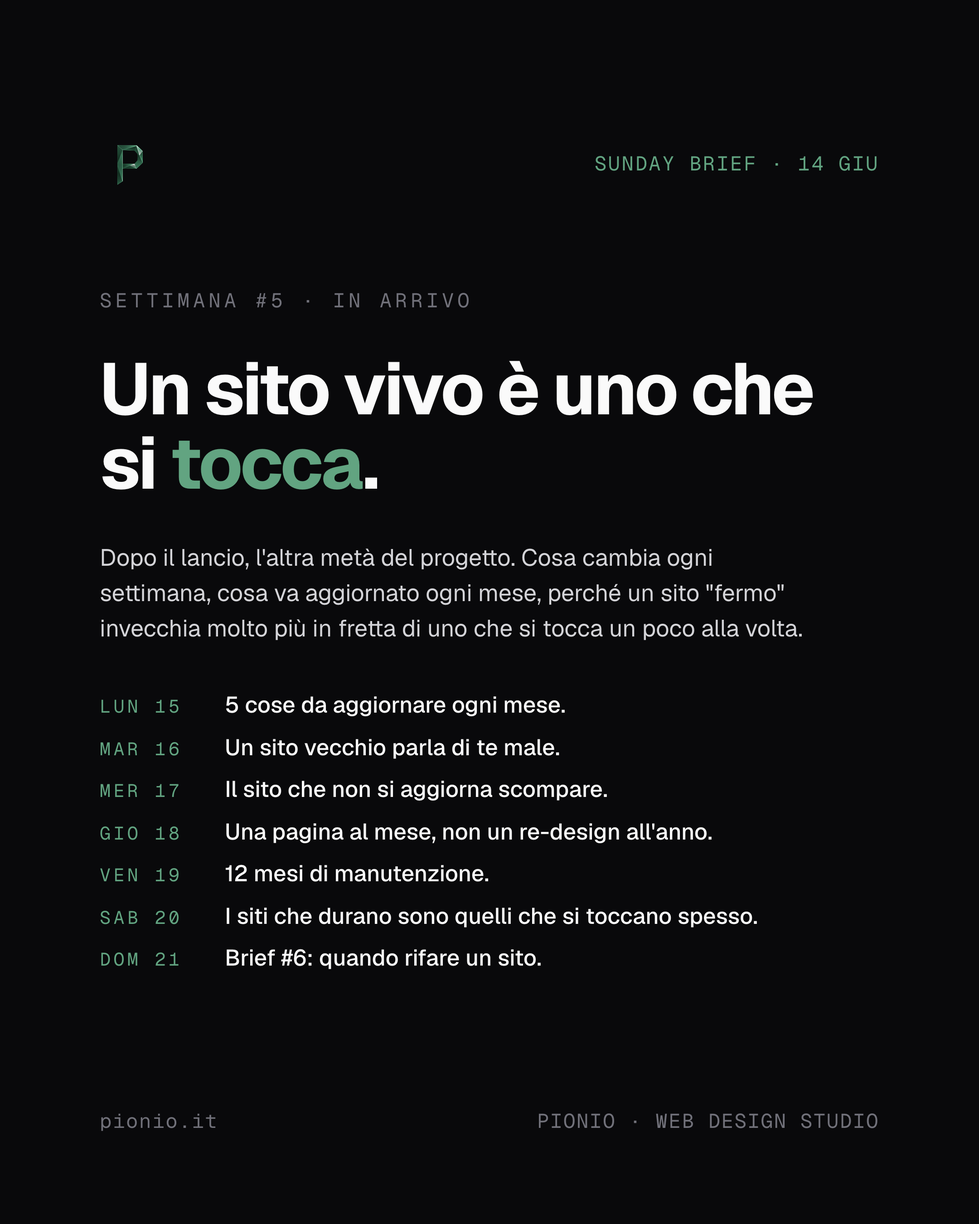
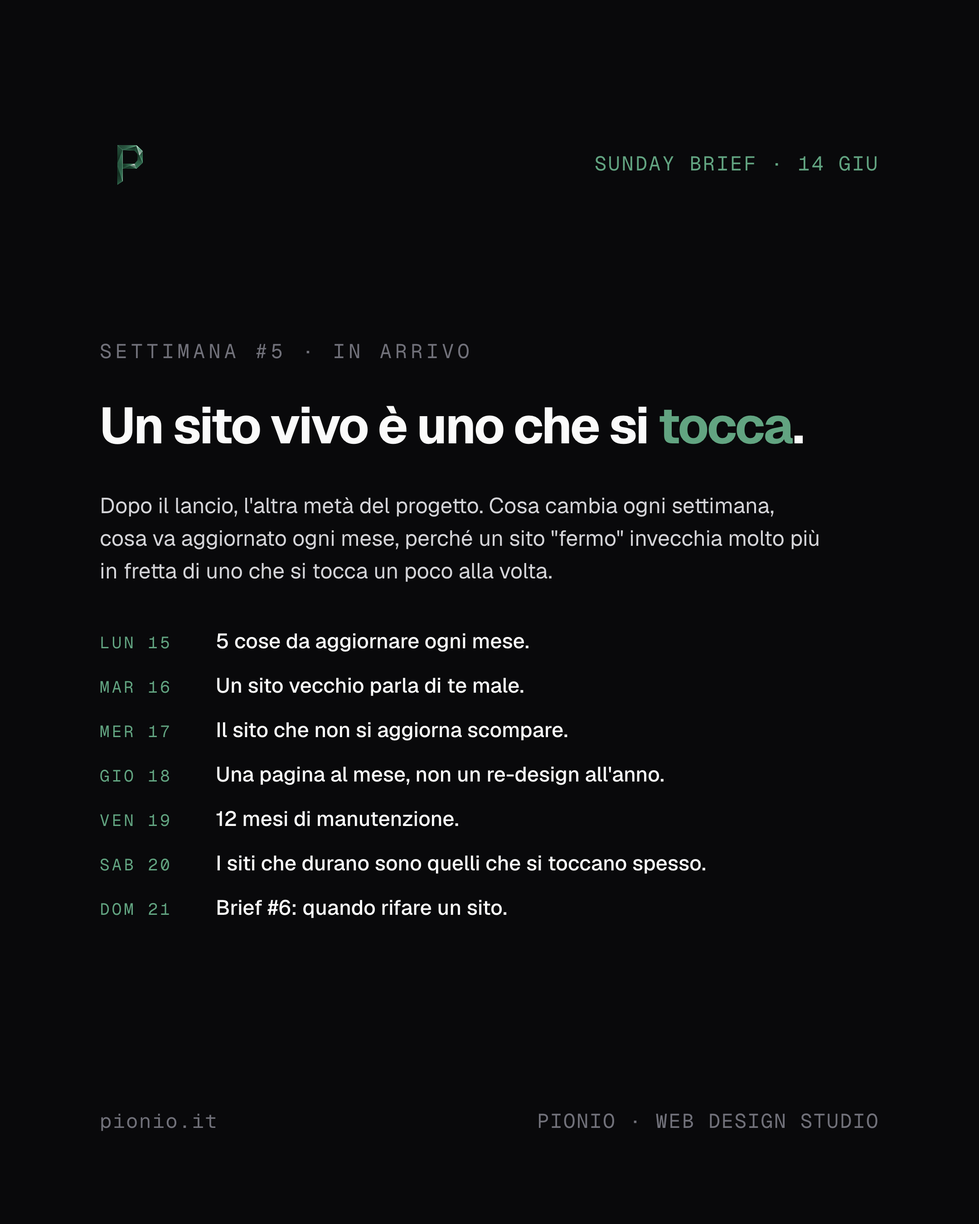
fix(instagram): Brief layout — respirato, nowrap day, no suffisso cross-mese

diff --git a/instagram/content/settimana-06-giu-2026/7-dom-28-13-brief-settimana-7/src/slides.html b/instagram/content/settimana-06-giu-2026/7-dom-28-13-brief-settimana-7/src/slides.html
@@ -17,15 +17,15 @@
   .logo { width: 64px; height: 64px; }
   .logo img { width: 100%; height: 100%; object-fit: contain; }
   .eyebrow { font-family: "Geist Mono", monospace; font-weight: 400; font-size: 22px; color: var(--accent); letter-spacing: 0.08em; text-transform: uppercase; }
-  .main { display: flex; flex-direction: column; justify-content: flex-start; gap: 28px; padding-top: 24px; }
+  .main { display: flex; flex-direction: column; justify-content: center; gap: 40px; }
   .brief-kicker { font-family: "Geist Mono", monospace; font-size: 22px; color: var(--muted-dim); letter-spacing: 0.18em; text-transform: uppercase; }
-  .brief-title { font-family: "Geist", sans-serif; font-weight: 700; font-size: 64px; line-height: 1.02; letter-spacing: -0.035em; color: var(--text); max-width: 880px; }
+  .brief-title { font-family: "Geist", sans-serif; font-weight: 700; font-size: 56px; line-height: 1.05; letter-spacing: -0.035em; color: var(--text); max-width: 880px; }
   .brief-title em { font-style: normal; color: var(--accent); }
-  .brief-lead { font-family: "Geist", sans-serif; font-weight: 400; font-size: 24px; line-height: 1.45; color: var(--muted); max-width: 780px; }
-  .brief-list { list-style: none; display: flex; flex-direction: column; gap: 10px; margin-top: 0; }
-  .brief-list li { display: grid; grid-template-columns: 110px 1fr; gap: 28px; align-items: baseline; }
-  .brief-list .day { font-family: "Geist Mono", monospace; font-size: 20px; color: var(--accent); letter-spacing: 0.16em; text-transform: uppercase; }
-  .brief-list .topic { font-family: "Geist", sans-serif; font-weight: 500; font-size: 25px; line-height: 1.3; color: var(--text); }
+  .brief-lead { font-family: "Geist", sans-serif; font-weight: 400; font-size: 24px; line-height: 1.5; color: var(--muted); max-width: 800px; }
+  .brief-list { list-style: none; display: flex; flex-direction: column; gap: 18px; margin-top: 4px; }
+  .brief-list li { display: grid; grid-template-columns: 100px 1fr; gap: 28px; align-items: baseline; }
+  .brief-list .day { font-family: "Geist Mono", monospace; font-size: 18px; color: var(--accent); letter-spacing: 0.14em; text-transform: uppercase; white-space: nowrap; }
+  .brief-list .topic { font-family: "Geist", sans-serif; font-weight: 500; font-size: 23px; line-height: 1.35; color: var(--text); }
   .brief-list .topic em { font-style: italic; color: var(--muted); font-weight: 400; }
   .brief-list .topic .frame { color: var(--accent); font-style: normal; font-weight: 600; }
   .footer { display: flex; align-items: flex-end; justify-content: space-between; }
@@ -47,7 +47,7 @@
     <ul class="brief-list">
       <li><span class="day">Lun 29</span><span class="topic">5 tipi di cliente a cui dico no.</span></li>
       <li><span class="day">Mar 30</span><span class="topic">Scegliere chi sei è scegliere chi non sei.</span></li>
-      <li><span class="day">Mer 1 lug</span><span class="topic">Quello che non faccio è il mio mestiere.</span></li>
+      <li><span class="day">Mer 1</span><span class="topic">Quello che non faccio è il mio mestiere.</span></li>
       <li><span class="day">Gio 2</span><span class="topic">Tre domande prima di dire sì.</span></li>
       <li><span class="day">Ven 3</span><span class="topic">Quando ho detto: no.</span></li>
       <li><span class="day">Sab 4</span><span class="topic">La nicchia non si sceglie. Ti sceglie.</span></li>

diff --git a/instagram/content/settimana-07-giu-2026/7-dom-5-13-brief-settimana-8/src/slides.html b/instagram/content/settimana-07-giu-2026/7-dom-5-13-brief-settimana-8/src/slides.html
@@ -17,15 +17,15 @@
   .logo { width: 64px; height: 64px; }
   .logo img { width: 100%; height: 100%; object-fit: contain; }
   .eyebrow { font-family: "Geist Mono", monospace; font-weight: 400; font-size: 22px; color: var(--accent); letter-spacing: 0.08em; text-transform: uppercase; }
-  .main { display: flex; flex-direction: column; justify-content: flex-start; gap: 28px; padding-top: 24px; }
+  .main { display: flex; flex-direction: column; justify-content: center; gap: 40px; }
   .brief-kicker { font-family: "Geist Mono", monospace; font-size: 22px; color: var(--muted-dim); letter-spacing: 0.18em; text-transform: uppercase; }
-  .brief-title { font-family: "Geist", sans-serif; font-weight: 700; font-size: 64px; line-height: 1.02; letter-spacing: -0.035em; color: var(--text); max-width: 880px; }
+  .brief-title { font-family: "Geist", sans-serif; font-weight: 700; font-size: 56px; line-height: 1.05; letter-spacing: -0.035em; color: var(--text); max-width: 880px; }
   .brief-title em { font-style: normal; color: var(--accent); }
-  .brief-lead { font-family: "Geist", sans-serif; font-weight: 400; font-size: 24px; line-height: 1.45; color: var(--muted); max-width: 780px; }
-  .brief-list { list-style: none; display: flex; flex-direction: column; gap: 10px; margin-top: 0; }
-  .brief-list li { display: grid; grid-template-columns: 110px 1fr; gap: 28px; align-items: baseline; }
-  .brief-list .day { font-family: "Geist Mono", monospace; font-size: 20px; color: var(--accent); letter-spacing: 0.16em; text-transform: uppercase; }
-  .brief-list .topic { font-family: "Geist", sans-serif; font-weight: 500; font-size: 25px; line-height: 1.3; color: var(--text); }
+  .brief-lead { font-family: "Geist", sans-serif; font-weight: 400; font-size: 24px; line-height: 1.5; color: var(--muted); max-width: 800px; }
+  .brief-list { list-style: none; display: flex; flex-direction: column; gap: 18px; margin-top: 4px; }
+  .brief-list li { display: grid; grid-template-columns: 100px 1fr; gap: 28px; align-items: baseline; }
+  .brief-list .day { font-family: "Geist Mono", monospace; font-size: 18px; color: var(--accent); letter-spacing: 0.14em; text-transform: uppercase; white-space: nowrap; }
+  .brief-list .topic { font-family: "Geist", sans-serif; font-weight: 500; font-size: 23px; line-height: 1.35; color: var(--text); }
   .brief-list .topic em { font-style: italic; color: var(--muted); font-weight: 400; }
   .brief-list .topic .frame { color: var(--accent); font-style: normal; font-weight: 600; }
   .footer { display: flex; align-items: flex-end; justify-content: space-between; }

diff --git a/instagram/content/settimana-08-lug-2026/7-dom-12-13-brief-settimana-9/src/slides.html b/instagram/content/settimana-08-lug-2026/7-dom-12-13-brief-settimana-9/src/slides.html
@@ -17,15 +17,15 @@
   .logo { width: 64px; height: 64px; }
   .logo img { width: 100%; height: 100%; object-fit: contain; }
   .eyebrow { font-family: "Geist Mono", monospace; font-weight: 400; font-size: 22px; color: var(--accent); letter-spacing: 0.08em; text-transform: uppercase; }
-  .main { display: flex; flex-direction: column; justify-content: flex-start; gap: 28px; padding-top: 24px; }
+  .main { display: flex; flex-direction: column; justify-content: center; gap: 40px; }
   .brief-kicker { font-family: "Geist Mono", monospace; font-size: 22px; color: var(--muted-dim); letter-spacing: 0.18em; text-transform: uppercase; }
-  .brief-title { font-family: "Geist", sans-serif; font-weight: 700; font-size: 64px; line-height: 1.02; letter-spacing: -0.035em; color: var(--text); max-width: 880px; }
+  .brief-title { font-family: "Geist", sans-serif; font-weight: 700; font-size: 56px; line-height: 1.05; letter-spacing: -0.035em; color: var(--text); max-width: 880px; }
   .brief-title em { font-style: normal; color: var(--accent); }
-  .brief-lead { font-family: "Geist", sans-serif; font-weight: 400; font-size: 24px; line-height: 1.45; color: var(--muted); max-width: 780px; }
-  .brief-list { list-style: none; display: flex; flex-direction: column; gap: 10px; margin-top: 0; }
-  .brief-list li { display: grid; grid-template-columns: 110px 1fr; gap: 28px; align-items: baseline; }
-  .brief-list .day { font-family: "Geist Mono", monospace; font-size: 20px; color: var(--accent); letter-spacing: 0.16em; text-transform: uppercase; }
-  .brief-list .topic { font-family: "Geist", sans-serif; font-weight: 500; font-size: 25px; line-height: 1.3; color: var(--text); }
+  .brief-lead { font-family: "Geist", sans-serif; font-weight: 400; font-size: 24px; line-height: 1.5; color: var(--muted); max-width: 800px; }
+  .brief-list { list-style: none; display: flex; flex-direction: column; gap: 18px; margin-top: 4px; }
+  .brief-list li { display: grid; grid-template-columns: 100px 1fr; gap: 28px; align-items: baseline; }
+  .brief-list .day { font-family: "Geist Mono", monospace; font-size: 18px; color: var(--accent); letter-spacing: 0.14em; text-transform: uppercase; white-space: nowrap; }
+  .brief-list .topic { font-family: "Geist", sans-serif; font-weight: 500; font-size: 23px; line-height: 1.35; color: var(--text); }
   .brief-list .topic em { font-style: italic; color: var(--muted); font-weight: 400; }
   .brief-list .topic .frame { color: var(--accent); font-style: normal; font-weight: 600; }
   .footer { display: flex; align-items: flex-end; justify-content: space-between; }

diff --git a/instagram/content/settimana-09-lug-2026/7-dom-19-13-brief-settimana-10/src/slides.html b/instagram/content/settimana-09-lug-2026/7-dom-19-13-brief-settimana-10/src/slides.html
@@ -17,15 +17,15 @@
   .logo { width: 64px; height: 64px; }
   .logo img { width: 100%; height: 100%; object-fit: contain; }
   .eyebrow { font-family: "Geist Mono", monospace; font-weight: 400; font-size: 22px; color: var(--accent); letter-spacing: 0.08em; text-transform: uppercase; }
-  .main { display: flex; flex-direction: column; justify-content: flex-start; gap: 28px; padding-top: 24px; }
+  .main { display: flex; flex-direction: column; justify-content: center; gap: 40px; }
   .brief-kicker { font-family: "Geist Mono", monospace; font-size: 22px; color: var(--muted-dim); letter-spacing: 0.18em; text-transform: uppercase; }
-  .brief-title { font-family: "Geist", sans-serif; font-weight: 700; font-size: 64px; line-height: 1.02; letter-spacing: -0.035em; color: var(--text); max-width: 880px; }
+  .brief-title { font-family: "Geist", sans-serif; font-weight: 700; font-size: 56px; line-height: 1.05; letter-spacing: -0.035em; color: var(--text); max-width: 880px; }
   .brief-title em { font-style: normal; color: var(--accent); }
-  .brief-lead { font-family: "Geist", sans-serif; font-weight: 400; font-size: 24px; line-height: 1.45; color: var(--muted); max-width: 780px; }
-  .brief-list { list-style: none; display: flex; flex-direction: column; gap: 10px; margin-top: 0; }
-  .brief-list li { display: grid; grid-template-columns: 110px 1fr; gap: 28px; align-items: baseline; }
-  .brief-list .day { font-family: "Geist Mono", monospace; font-size: 20px; color: var(--accent); letter-spacing: 0.16em; text-transform: uppercase; }
-  .brief-list .topic { font-family: "Geist", sans-serif; font-weight: 500; font-size: 25px; line-height: 1.3; color: var(--text); }
+  .brief-lead { font-family: "Geist", sans-serif; font-weight: 400; font-size: 24px; line-height: 1.5; color: var(--muted); max-width: 800px; }
+  .brief-list { list-style: none; display: flex; flex-direction: column; gap: 18px; margin-top: 4px; }
+  .brief-list li { display: grid; grid-template-columns: 100px 1fr; gap: 28px; align-items: baseline; }
+  .brief-list .day { font-family: "Geist Mono", monospace; font-size: 18px; color: var(--accent); letter-spacing: 0.14em; text-transform: uppercase; white-space: nowrap; }
+  .brief-list .topic { font-family: "Geist", sans-serif; font-weight: 500; font-size: 23px; line-height: 1.35; color: var(--text); }
   .brief-list .topic em { font-style: italic; color: var(--muted); font-weight: 400; }
   .brief-list .topic .frame { color: var(--accent); font-style: normal; font-weight: 600; }
   .footer { display: flex; align-items: flex-end; justify-content: space-between; }

diff --git a/instagram/content/settimana-11-lug-2026/7-dom-2-13-brief-settimana-12/src/slides.html b/instagram/content/settimana-11-lug-2026/7-dom-2-13-brief-settimana-12/src/slides.html
@@ -17,15 +17,15 @@
   .logo { width: 64px; height: 64px; }
   .logo img { width: 100%; height: 100%; object-fit: contain; }
   .eyebrow { font-family: "Geist Mono", monospace; font-weight: 400; font-size: 22px; color: var(--accent); letter-spacing: 0.08em; text-transform: uppercase; }
-  .main { display: flex; flex-direction: column; justify-content: flex-start; gap: 28px; padding-top: 24px; }
+  .main { display: flex; flex-direction: column; justify-content: center; gap: 40px; }
   .brief-kicker { font-family: "Geist Mono", monospace; font-size: 22px; color: var(--muted-dim); letter-spacing: 0.18em; text-transform: uppercase; }
-  .brief-title { font-family: "Geist", sans-serif; font-weight: 700; font-size: 64px; line-height: 1.02; letter-spacing: -0.035em; color: var(--text); max-width: 880px; }
+  .brief-title { font-family: "Geist", sans-serif; font-weight: 700; font-size: 56px; line-height: 1.05; letter-spacing: -0.035em; color: var(--text); max-width: 880px; }
   .brief-title em { font-style: normal; color: var(--accent); }
-  .brief-lead { font-family: "Geist", sans-serif; font-weight: 400; font-size: 24px; line-height: 1.45; color: var(--muted); max-width: 780px; }
-  .brief-list { list-style: none; display: flex; flex-direction: column; gap: 10px; margin-top: 0; }
-  .brief-list li { display: grid; grid-template-columns: 110px 1fr; gap: 28px; align-items: baseline; }
-  .brief-list .day { font-family: "Geist Mono", monospace; font-size: 20px; color: var(--accent); letter-spacing: 0.16em; text-transform: uppercase; }
-  .brief-list .topic { font-family: "Geist", sans-serif; font-weight: 500; font-size: 25px; line-height: 1.3; color: var(--text); }
+  .brief-lead { font-family: "Geist", sans-serif; font-weight: 400; font-size: 24px; line-height: 1.5; color: var(--muted); max-width: 800px; }
+  .brief-list { list-style: none; display: flex; flex-direction: column; gap: 18px; margin-top: 4px; }
+  .brief-list li { display: grid; grid-template-columns: 100px 1fr; gap: 28px; align-items: baseline; }
+  .brief-list .day { font-family: "Geist Mono", monospace; font-size: 18px; color: var(--accent); letter-spacing: 0.14em; text-transform: uppercase; white-space: nowrap; }
+  .brief-list .topic { font-family: "Geist", sans-serif; font-weight: 500; font-size: 23px; line-height: 1.35; color: var(--text); }
   .brief-list .topic em { font-style: italic; color: var(--muted); font-weight: 400; }
   .brief-list .topic .frame { color: var(--accent); font-style: normal; font-weight: 600; }
   .footer { display: flex; align-items: flex-end; justify-content: space-between; }

diff --git a/instagram/content/settimana-02-mag-2026/7-dom-31-13-brief-settimana-3/src/slides.html b/instagram/content/settimana-02-mag-2026/7-dom-31-13-brief-settimana-3/src/slides.html
@@ -29,40 +29,22 @@
     color: var(--accent); letter-spacing: 0.08em; text-transform: uppercase;
   }
 
-  .main {
-    display: flex; flex-direction: column; justify-content: center; gap: 44px;
-  }
+  .main { display: flex; flex-direction: column; justify-content: center; gap: 40px; }
 
   .brief-kicker {
     font-family: "Geist Mono", monospace; font-size: 22px;
     color: var(--muted-dim); letter-spacing: 0.18em; text-transform: uppercase;
   }
 
-  .brief-title {
-    font-family: "Geist", sans-serif; font-weight: 700; font-size: 80px;
-    line-height: 1.02; letter-spacing: -0.035em; color: var(--text);
-    max-width: 880px;
-  }
+  .brief-title { font-family: "Geist", sans-serif; font-weight: 700; font-size: 56px; line-height: 1.05; letter-spacing: -0.035em; color: var(--text); max-width: 880px; }
   .brief-title em { font-style: normal; color: var(--accent); }
 
-  .brief-lead {
-    font-family: "Geist", sans-serif; font-weight: 400; font-size: 26px;
-    line-height: 1.5; color: var(--muted); max-width: 780px;
-  }
+  .brief-lead { font-family: "Geist", sans-serif; font-weight: 400; font-size: 24px; line-height: 1.5; color: var(--muted); max-width: 800px; }
 
-  .brief-list { list-style: none; display: flex; flex-direction: column; gap: 14px; margin-top: 4px; }
-  .brief-list li {
-    display: grid; grid-template-columns: 110px 1fr;
-    gap: 28px; align-items: baseline;
-  }
-  .brief-list .day {
-    font-family: "Geist Mono", monospace; font-size: 20px;
-    color: var(--accent); letter-spacing: 0.16em; text-transform: uppercase;
-  }
-  .brief-list .topic {
-    font-family: "Geist", sans-serif; font-weight: 500; font-size: 25px;
-    line-height: 1.3; color: var(--text);
-  }
+  .brief-list { list-style: none; display: flex; flex-direction: column; gap: 18px; margin-top: 4px; }
+  .brief-list li { display: grid; grid-template-columns: 100px 1fr; gap: 28px; align-items: baseline; }
+  .brief-list .day { font-family: "Geist Mono", monospace; font-size: 18px; color: var(--accent); letter-spacing: 0.14em; text-transform: uppercase; white-space: nowrap; }
+  .brief-list .topic { font-family: "Geist", sans-serif; font-weight: 500; font-size: 23px; line-height: 1.35; color: var(--text); }
   .brief-list .topic em { font-style: italic; color: var(--muted); font-weight: 400; }
   .brief-list .topic .frame { color: var(--accent); font-style: normal; font-weight: 600; }
 

diff --git a/instagram/content/settimana-03-giu-2026/7-dom-07-13-brief-settimana-4/src/slides.html b/instagram/content/settimana-03-giu-2026/7-dom-07-13-brief-settimana-4/src/slides.html
@@ -29,40 +29,22 @@
     color: var(--accent); letter-spacing: 0.08em; text-transform: uppercase;
   }
 
-  .main {
-    display: flex; flex-direction: column; justify-content: center; gap: 44px;
-  }
+  .main { display: flex; flex-direction: column; justify-content: center; gap: 40px; }
 
   .brief-kicker {
     font-family: "Geist Mono", monospace; font-size: 22px;
     color: var(--muted-dim); letter-spacing: 0.18em; text-transform: uppercase;
   }
 
-  .brief-title {
-    font-family: "Geist", sans-serif; font-weight: 700; font-size: 80px;
-    line-height: 1.02; letter-spacing: -0.035em; color: var(--text);
-    max-width: 880px;
-  }
+  .brief-title { font-family: "Geist", sans-serif; font-weight: 700; font-size: 56px; line-height: 1.05; letter-spacing: -0.035em; color: var(--text); max-width: 880px; }
   .brief-title em { font-style: normal; color: var(--accent); }
 
-  .brief-lead {
-    font-family: "Geist", sans-serif; font-weight: 400; font-size: 26px;
-    line-height: 1.5; color: var(--muted); max-width: 780px;
-  }
+  .brief-lead { font-family: "Geist", sans-serif; font-weight: 400; font-size: 24px; line-height: 1.5; color: var(--muted); max-width: 800px; }
 
-  .brief-list { list-style: none; display: flex; flex-direction: column; gap: 14px; margin-top: 4px; }
-  .brief-list li {
-    display: grid; grid-template-columns: 110px 1fr;
-    gap: 28px; align-items: baseline;
-  }
-  .brief-list .day {
-    font-family: "Geist Mono", monospace; font-size: 20px;
-    color: var(--accent); letter-spacing: 0.16em; text-transform: uppercase;
-  }
-  .brief-list .topic {
-    font-family: "Geist", sans-serif; font-weight: 500; font-size: 25px;
-    line-height: 1.3; color: var(--text);
-  }
+  .brief-list { list-style: none; display: flex; flex-direction: column; gap: 18px; margin-top: 4px; }
+  .brief-list li { display: grid; grid-template-columns: 100px 1fr; gap: 28px; align-items: baseline; }
+  .brief-list .day { font-family: "Geist Mono", monospace; font-size: 18px; color: var(--accent); letter-spacing: 0.14em; text-transform: uppercase; white-space: nowrap; }
+  .brief-list .topic { font-family: "Geist", sans-serif; font-weight: 500; font-size: 23px; line-height: 1.35; color: var(--text); }
   .brief-list .topic em { font-style: italic; color: var(--muted); font-weight: 400; }
   .brief-list .topic .frame { color: var(--accent); font-style: normal; font-weight: 600; }
 

diff --git a/instagram/content/settimana-04-giu-2026/7-dom-14-13-brief-settimana-5/src/slides.html b/instagram/content/settimana-04-giu-2026/7-dom-14-13-brief-settimana-5/src/slides.html
@@ -29,40 +29,22 @@
     color: var(--accent); letter-spacing: 0.08em; text-transform: uppercase;
   }
 
-  .main {
-    display: flex; flex-direction: column; justify-content: center; gap: 44px;
-  }
+  .main { display: flex; flex-direction: column; justify-content: center; gap: 40px; }
 
   .brief-kicker {
     font-family: "Geist Mono", monospace; font-size: 22px;
     color: var(--muted-dim); letter-spacing: 0.18em; text-transform: uppercase;
   }
 
-  .brief-title {
-    font-family: "Geist", sans-serif; font-weight: 700; font-size: 80px;
-    line-height: 1.02; letter-spacing: -0.035em; color: var(--text);
-    max-width: 880px;
-  }
+  .brief-title { font-family: "Geist", sans-serif; font-weight: 700; font-size: 56px; line-height: 1.05; letter-spacing: -0.035em; color: var(--text); max-width: 880px; }
   .brief-title em { font-style: normal; color: var(--accent); }
 
-  .brief-lead {
-    font-family: "Geist", sans-serif; font-weight: 400; font-size: 26px;
-    line-height: 1.5; color: var(--muted); max-width: 780px;
-  }
+  .brief-lead { font-family: "Geist", sans-serif; font-weight: 400; font-size: 24px; line-height: 1.5; color: var(--muted); max-width: 800px; }
 
-  .brief-list { list-style: none; display: flex; flex-direction: column; gap: 14px; margin-top: 4px; }
-  .brief-list li {
-    display: grid; grid-template-columns: 110px 1fr;
-    gap: 28px; align-items: baseline;
-  }
-  .brief-list .day {
-    font-family: "Geist Mono", monospace; font-size: 20px;
-    color: var(--accent); letter-spacing: 0.16em; text-transform: uppercase;
-  }
-  .brief-list .topic {
-    font-family: "Geist", sans-serif; font-weight: 500; font-size: 25px;
-    line-height: 1.3; color: var(--text);
-  }
+  .brief-list { list-style: none; display: flex; flex-direction: column; gap: 18px; margin-top: 4px; }
+  .brief-list li { display: grid; grid-template-columns: 100px 1fr; gap: 28px; align-items: baseline; }
+  .brief-list .day { font-family: "Geist Mono", monospace; font-size: 18px; color: var(--accent); letter-spacing: 0.14em; text-transform: uppercase; white-space: nowrap; }
+  .brief-list .topic { font-family: "Geist", sans-serif; font-weight: 500; font-size: 23px; line-height: 1.35; color: var(--text); }
   .brief-list .topic em { font-style: italic; color: var(--muted); font-weight: 400; }
   .brief-list .topic .frame { color: var(--accent); font-style: normal; font-weight: 600; }
 

diff --git a/instagram/content/settimana-05-giu-2026/7-dom-21-13-brief-settimana-6/src/slides.html b/instagram/content/settimana-05-giu-2026/7-dom-21-13-brief-settimana-6/src/slides.html
@@ -29,40 +29,22 @@
     color: var(--accent); letter-spacing: 0.08em; text-transform: uppercase;
   }
 
-  .main {
-    display: flex; flex-direction: column; justify-content: center; gap: 44px;
-  }
+  .main { display: flex; flex-direction: column; justify-content: center; gap: 40px; }
 
   .brief-kicker {
     font-family: "Geist Mono", monospace; font-size: 22px;
     color: var(--muted-dim); letter-spacing: 0.18em; text-transform: uppercase;
   }
 
-  .brief-title {
-    font-family: "Geist", sans-serif; font-weight: 700; font-size: 80px;
-    line-height: 1.02; letter-spacing: -0.035em; color: var(--text);
-    max-width: 880px;
-  }
+  .brief-title { font-family: "Geist", sans-serif; font-weight: 700; font-size: 56px; line-height: 1.05; letter-spacing: -0.035em; color: var(--text); max-width: 880px; }
   .brief-title em { font-style: normal; color: var(--accent); }
 
-  .brief-lead {
-    font-family: "Geist", sans-serif; font-weight: 400; font-size: 26px;
-    line-height: 1.5; color: var(--muted); max-width: 780px;
-  }
+  .brief-lead { font-family: "Geist", sans-serif; font-weight: 400; font-size: 24px; line-height: 1.5; color: var(--muted); max-width: 800px; }
 
-  .brief-list { list-style: none; display: flex; flex-direction: column; gap: 10px; margin-top: 0; }
-  .brief-list li {
-    display: grid; grid-template-columns: 110px 1fr;
-    gap: 28px; align-items: baseline;
-  }
-  .brief-list .day {
-    font-family: "Geist Mono", monospace; font-size: 20px;
-    color: var(--accent); letter-spacing: 0.16em; text-transform: uppercase;
-  }
-  .brief-list .topic {
-    font-family: "Geist", sans-serif; font-weight: 500; font-size: 25px;
-    line-height: 1.3; color: var(--text);
-  }
+  .brief-list { list-style: none; display: flex; flex-direction: column; gap: 18px; margin-top: 4px; }
+  .brief-list li { display: grid; grid-template-columns: 100px 1fr; gap: 28px; align-items: baseline; }
+  .brief-list .day { font-family: "Geist Mono", monospace; font-size: 18px; color: var(--accent); letter-spacing: 0.14em; text-transform: uppercase; white-space: nowrap; }
+  .brief-list .topic { font-family: "Geist", sans-serif; font-weight: 500; font-size: 23px; line-height: 1.35; color: var(--text); }
   .brief-list .topic em { font-style: italic; color: var(--muted); font-weight: 400; }
   .brief-list .topic .frame { color: var(--accent); font-style: normal; font-weight: 600; }
 

diff --git a/instagram/content/settimana-10-lug-2026/7-dom-26-13-brief-settimana-11/src/slides.html b/instagram/content/settimana-10-lug-2026/7-dom-26-13-brief-settimana-11/src/slides.html
@@ -24,7 +24,7 @@
   .brief-lead { font-family: "Geist", sans-serif; font-weight: 400; font-size: 24px; line-height: 1.5; color: var(--muted); max-width: 800px; }
   .brief-list { list-style: none; display: flex; flex-direction: column; gap: 18px; margin-top: 4px; }
   .brief-list li { display: grid; grid-template-columns: 100px 1fr; gap: 28px; align-items: baseline; }
-  .brief-list .day { font-family: "Geist Mono", monospace; font-size: 18px; color: var(--accent); letter-spacing: 0.14em; text-transform: uppercase; }
+  .brief-list .day { font-family: "Geist Mono", monospace; font-size: 18px; color: var(--accent); letter-spacing: 0.14em; text-transform: uppercase;  white-space: nowrap; }
   .brief-list .topic { font-family: "Geist", sans-serif; font-weight: 500; font-size: 23px; line-height: 1.35; color: var(--text); }
   .brief-list .topic em { font-style: italic; color: var(--muted); font-weight: 400; }
   .brief-list .topic .frame { color: var(--accent); font-style: normal; font-weight: 600; }
@@ -50,8 +50,8 @@
       <li><span class="day">Mer 29</span><span class="topic">Le immagini sono il vero peso.</span></li>
       <li><span class="day">Gio 30</span><span class="topic">Quattro test prima di consegnare.</span></li>
       <li><span class="day">Ven 31</span><span class="topic">Caso studio: da otto secondi a uno e mezzo.</span></li>
-      <li><span class="day">Sab 1 ago</span><span class="topic">La velocità è una forma di cura.</span></li>
-      <li><span class="day">Dom 2 ago</span><span class="topic">Brief #12: lanciare bene.</span></li>
+      <li><span class="day">Sab 1</span><span class="topic">La velocità è una forma di cura.</span></li>
+      <li><span class="day">Dom 2</span><span class="topic">Brief #12: lanciare bene.</span></li>
     </ul>
   </div>
   <div class="footer">

diff --git a/instagram/content/settimana-01-mag-2026/7-dom-24-13-brief-settimana-2/src/slides.html b/instagram/content/settimana-01-mag-2026/7-dom-24-13-brief-settimana-2/src/slides.html
@@ -58,7 +58,7 @@
   .brief-list .day {
     font-family: "Geist Mono", monospace; font-size: 18px;
     color: var(--accent); letter-spacing: 0.16em; text-transform: uppercase;
-  }
+   white-space: nowrap; }
   .brief-list .topic {
     font-family: "Geist", sans-serif; font-weight: 500; font-size: 23px;
     line-height: 1.35; color: var(--text);
